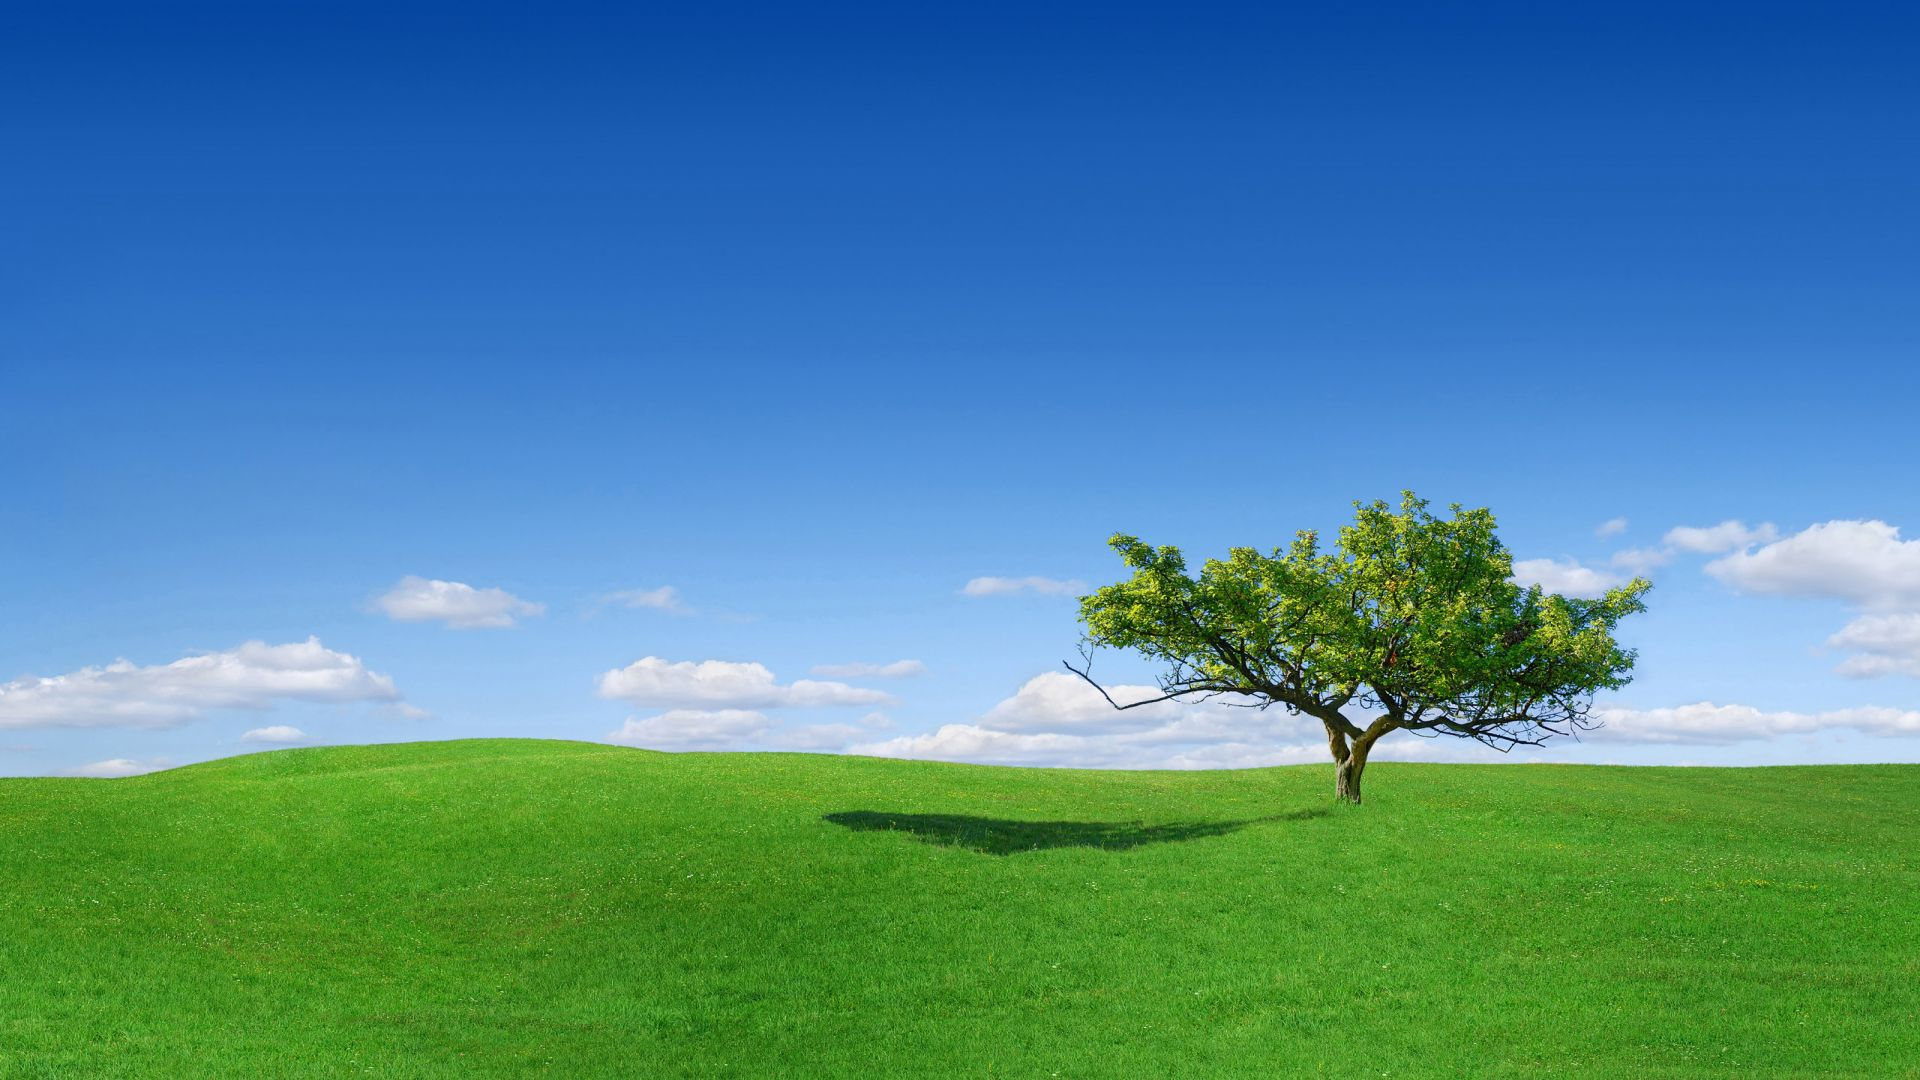
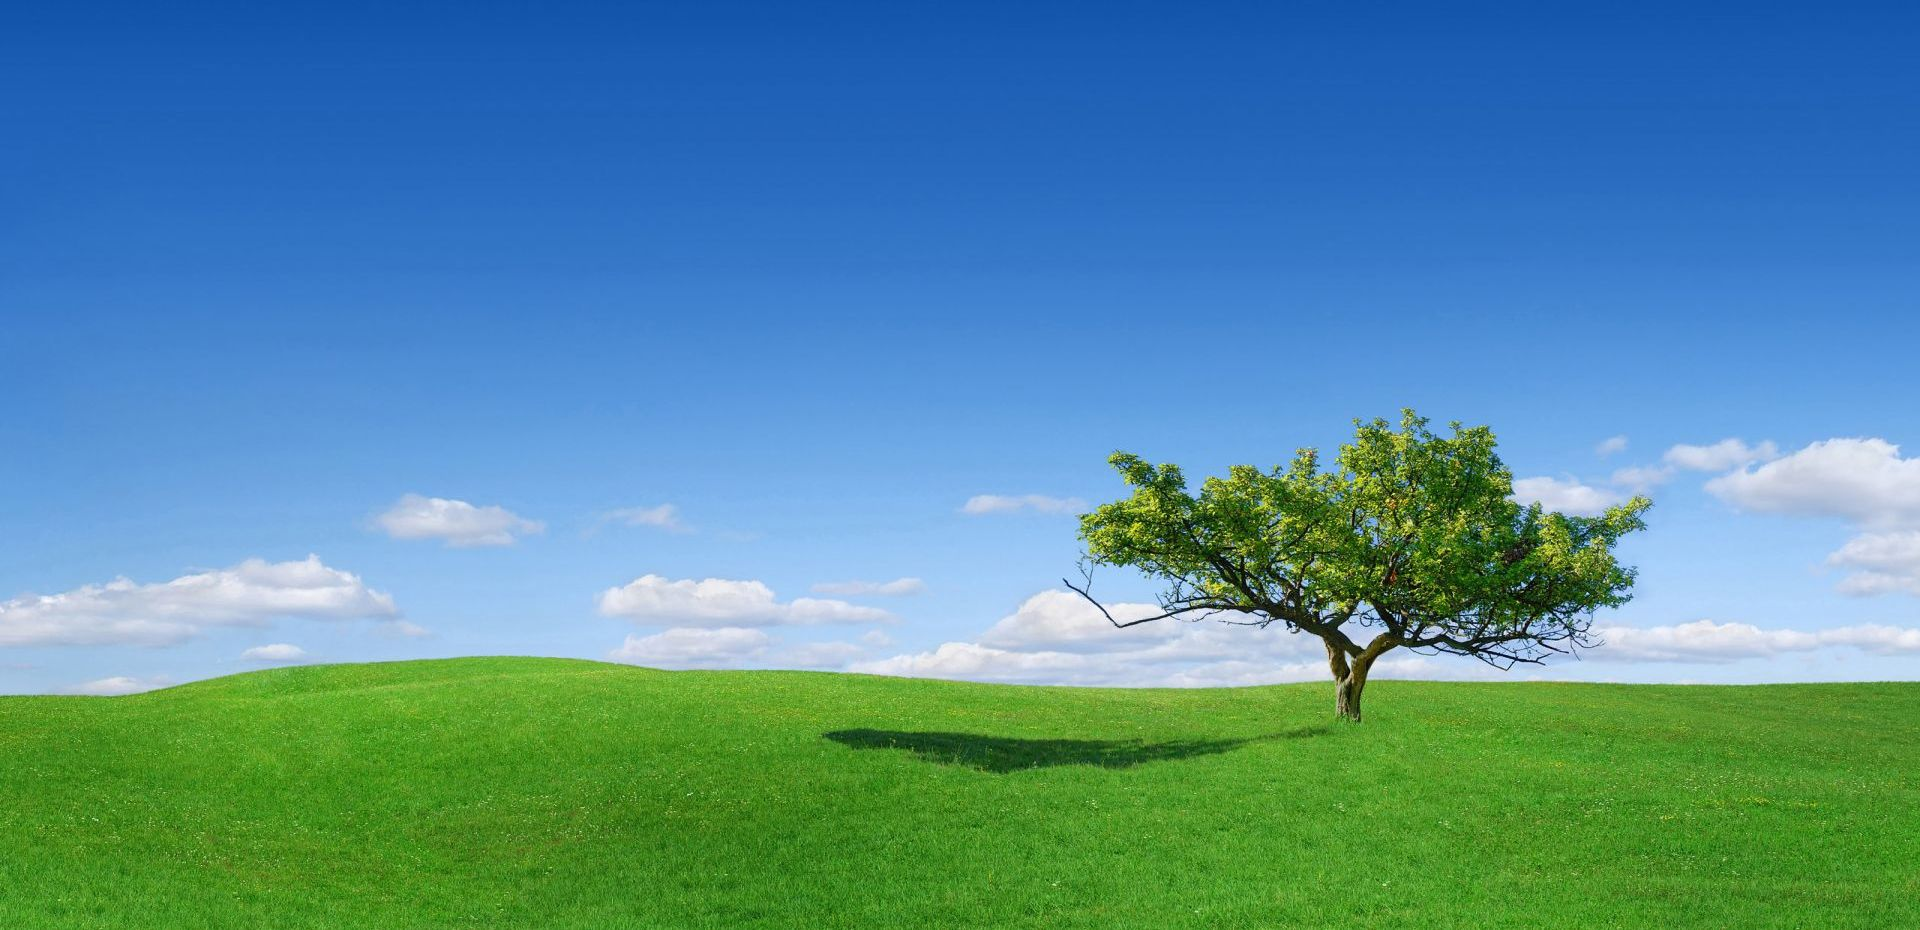
carousel dynamic centered

Changed region(s): [[0.0, 0.4366, 1.0, 1.0]]

diff --git a/app/assets/stylesheets/home.css.scss b/app/assets/stylesheets/home.css.scss
@@ -2,20 +2,15 @@
 // They will automatically be included in application.css.
 // You can use Sass (SCSS) here: http://sass-lang.com/
 
-/* CUSTOMIZE THE CAROUSEL
--------------------------------------------------- */
-
-/*
- * Base structure
- */
-
 html,
 body {
   height: 100%;
-  background-color: #333;
 }
 body {
   color: #fff;
+  text-align: center;
+  text-shadow: 0 1px 3px rgba(0,0,0,.5);
+  box-shadow: inset 0 0 100px rgba(0,0,0,.5);
 }
 
 /* Extra markup and styles for table-esque vertical and horizontal centering */
@@ -28,17 +23,15 @@ body {
 .site-wrapper-inner {
   display: table-cell;
   vertical-align: middle;
-  padding: 0px;
-  width: 100%;
-  height: 100%; /* For at least Firefox */
-  min-height: 100%;
 }
 .cover-container {
-  margin-left: 0;
+  margin-right: auto;
+  margin-left: auto;
+}
+
+/* Padding for spacing */
+.inner {
   padding: 0px;
-  width: 100%;
-  max-height: 100%; /* For at least Firefox */
-  min-height: 100%;
 }
 
 /*
@@ -68,9 +61,6 @@ body {
 }
 
 @media (min-width: 992px) {
-  .site-wrapper-inner {
-    vertical-align: middle;
-  }
   .cover-container {
     width: 100%;
   }
@@ -78,26 +68,14 @@ body {
 
 /* Carousel base class */
 .carousel {
-  padding: 0px;
   max-height: 100%;
-}
-/* Since positioning the image, we need to help out the caption */
-.carousel-caption {
-  z-index: 10;
 }
 
 /* Declare heights because of positioning of img element */
 .item {
-  max-height: 620px;
+  min-height: 100px;
+  max-height: 100%;
   background-color: #777;
 }
-/*.carousel-inner > .item > img {
-  position: absolute;
-  top: 0;
-  left: 0;
-  min-width: 100%;
-  max-height: 100%;
-  max-width: 100%;
-}*/
 
 
